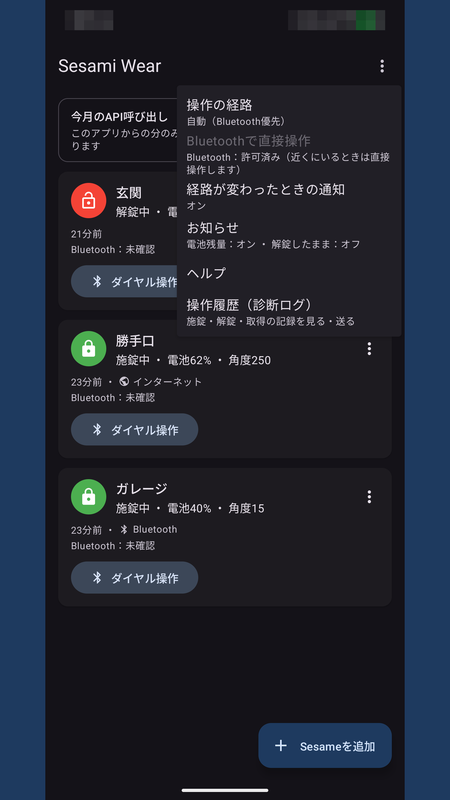
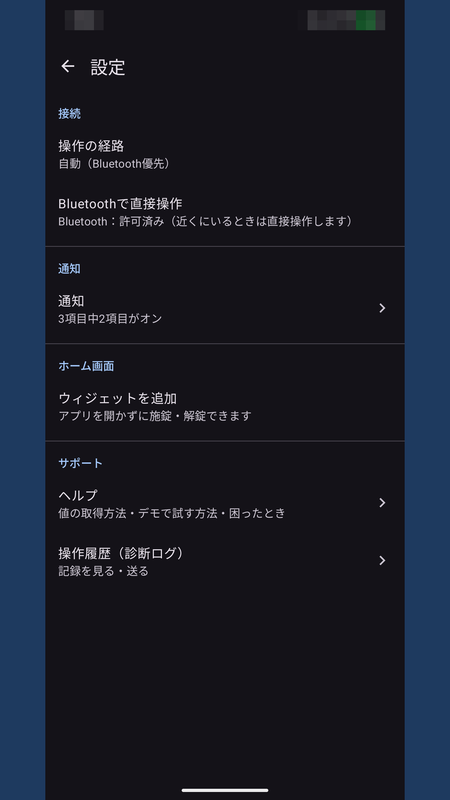
docs: 0.16.0のリリース準備と接続確認の掲載画像の追加 (BL-284 / BL-285) (#101)
* docs: 🚀 0.16.0のリリース準備と掲載スクリーンショット3点の撮り直し

対象: BL-284, BL-285

- RELEASE_NOTESの未リリースを0.16.0(2026-11-08)へ確定し、version.propertiesを
  versionCode 15 / wear 1013 / versionName 0.16.0へ更新(署名付きAAB x2ビルド済み)
- 紹介ページの版表記、USER_GUIDEの「次のバージョン以降」を0.16.0へ更新
- phone_4 / phone_5 / phone_7 を実機の撮影モードで撮り直し、紹介ページの画像と説明を追随
- BACKLOGへ配信・タグ作成(BL-285)を起票し、BL-284をPlay Consoleの差し替えのみに整理

品質ゲート: ktlint / detekt / lintDebug / 単体テスト / assembleDebug / markdownlint / 記録検証すべて成功

Claude-Session: https://claude.ai/code/session_01WnqNbaNbKwV6c5SNHH6CXg

* docs: 📸 掲載用にBluetooth接続の確認（レーダー）のスマホ画面を追加する

対象: BL-284

- phone_6_radar / phone_7_radar_all を実機の撮影モードで撮影して追加
- Google Playのスマホ用は最大8枚のため、旧 phone_6_device_edit / phone_7_help と入れ替え
- docs/store/README.md と STORE_LISTING.md の内訳を更新

品質ゲート: markdownlint / 記録検証 成功

Claude-Session: https://claude.ai/code/session_01WnqNbaNbKwV6c5SNHH6CXg

* docs: 📸 掲載用にWear OSの接続確認（レーダー）の画面を追加する

対象: BL-284

- wear_7_radar / wear_8_radar_all をPixel Watch 2実機の撮影モードで撮影して追加
- docs/store/README.md・STORE_LISTING.md・CHANGELOG.md・BACKLOG.md を更新

品質ゲート: markdownlint / 記録検証 成功

Claude-Session: https://claude.ai/code/session_01WnqNbaNbKwV6c5SNHH6CXg

* docs: 📸 Wear OSの接続確認に「接続OK」の画面を追加する

対象: BL-284

- wear_8_radar_connected を追加し、全デバイスの画像を wear_9_radar_all へ繰り下げ
- 掲載画像の内訳（Wear OS用9枚）とBACKLOG・CHANGELOGを更新

品質ゲート: markdownlint / 記録検証 成功

Claude-Session: https://claude.ai/code/session_01WnqNbaNbKwV6c5SNHH6CXg

---------

diff --git a/index.html b/index.html
@@ -57,7 +57,7 @@
             <a class="button primary" href="https://github.com/filderschoice/sesami-wear/blob/main/docs/CLOSED_TEST.md">クローズドテストに参加</a>
             <a class="button" href="https://github.com/filderschoice/sesami-wear">ソースコード</a>
           </div>
-          <p class="meta">v0.15.1 ・ Android 8.0 以上 ・ Wear OS 3 以上（任意） ・ MIT License ・ 広告なし</p>
+          <p class="meta">v0.16.0 ・ Android 8.0 以上 ・ Wear OS 3 以上（任意） ・ MIT License ・ 広告なし</p>
         </div>
         <div class="hero-visual">
           <img src="assets/phone-widget.png" alt="スマートフォンのホーム画面に置いた Sesami Wear の大小2つのウィジェット。全デバイスが施錠中の状態と取得日時、更新・変更のボタンが表示されている（壁紙とステータスバーはぼかし加工）" width="450" height="800">
@@ -215,7 +215,7 @@
         <p class="section-lead">Pixel 8 Pro での表示です（0.14.3。個人情報の写る部分は加工しています）。</p>
         <ul class="features">
           <li class="card">
-            <img class="phone" src="assets/phone-4-device-list.png" alt="アプリのデバイス一覧。玄関・勝手口・ガレージの3台が、施錠状態・電池残量・経路とともに並ぶ" width="450" height="800" loading="lazy">
+            <img class="phone" src="assets/phone-4-device-list.png" alt="アプリのデバイス一覧。玄関・勝手口・ガレージの3台が、施錠状態・電池残量・経路とともに並び、右上のBluetoothアイコンと各カードの接続確認から接続を確かめられる" width="450" height="800" loading="lazy">
             <h3>デバイス一覧</h3>
             <p>状態・電池残量・操作した経路を、デバイスごとに確認できます。</p>
           </li>
@@ -230,12 +230,12 @@
             <p>3 点を入力するだけ。端末内に暗号化して保存します（画面の値はダミー）。</p>
           </li>
           <li class="card">
-            <img class="phone" src="assets/phone-5-menu.png" alt="アプリのメニュー。操作の経路、通知、ヘルプ、操作履歴（診断ログ）の項目が並ぶ" width="450" height="800" loading="lazy">
+            <img class="phone" src="assets/phone-5-menu.png" alt="アプリの設定画面。接続（操作の経路・Bluetoothで直接操作）、通知、ホーム画面、サポート（ヘルプ・操作履歴）の項目が並ぶ" width="450" height="800" loading="lazy">
             <h3>設定メニュー</h3>
             <p>経路の優先順位や通知、操作履歴（診断ログ）をここから設定します。</p>
           </li>
           <li class="card">
-            <img class="phone" src="assets/phone-7-help.png" alt="アプリ内ヘルプ。値の取得方法やデモで試す方法などの項目が一覧になっている" width="450" height="800" loading="lazy">
+            <img class="phone" src="assets/phone-7-help.png" alt="アプリ内ヘルプ。値の取得方法やデモで試す方法、Bluetooth接続の確認（レーダー）などの項目が一覧になっている" width="450" height="800" loading="lazy">
             <h3>アプリ内ヘルプ</h3>
             <p>値の取得方法やデモの使い方を、アプリの中で確認できます。</p>
           </li>
